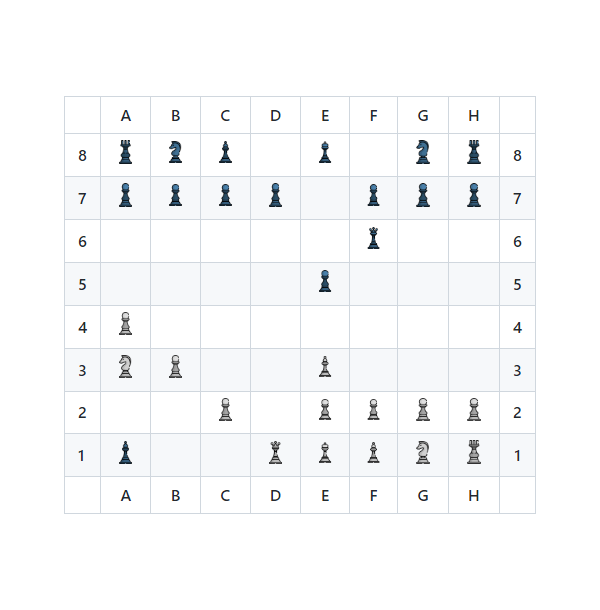
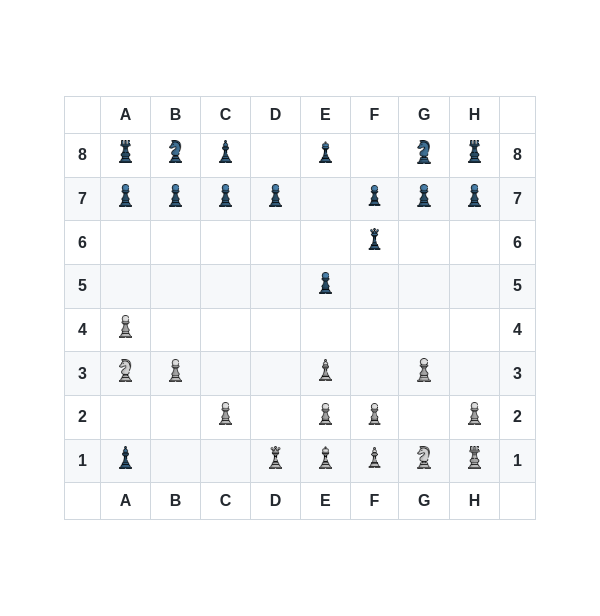
Generated the chess board preview img ♟

diff --git a/file.md b/file.md
@@ -6,7 +6,7 @@
 | **6** | <img src="https://raw.githubusercontent.com/milaabl/readme-chess/master/img/blank.png" width=50px> | <img src="https://raw.githubusercontent.com/milaabl/readme-chess/master/img/blank.png" width=50px> | <img src="https://raw.githubusercontent.com/milaabl/readme-chess/master/img/blank.png" width=50px> | <img src="https://raw.githubusercontent.com/milaabl/readme-chess/master/img/blank.png" width=50px> | <img src="https://raw.githubusercontent.com/milaabl/readme-chess/master/img/blank.png" width=50px> | <img src="https://raw.githubusercontent.com/milaabl/readme-chess/master/img/black/queen.png" width=50px> | <img src="https://raw.githubusercontent.com/milaabl/readme-chess/master/img/blank.png" width=50px> | <img src="https://raw.githubusercontent.com/milaabl/readme-chess/master/img/blank.png" width=50px> | **6** |
 | **5** | <img src="https://raw.githubusercontent.com/milaabl/readme-chess/master/img/blank.png" width=50px> | <img src="https://raw.githubusercontent.com/milaabl/readme-chess/master/img/blank.png" width=50px> | <img src="https://raw.githubusercontent.com/milaabl/readme-chess/master/img/blank.png" width=50px> | <img src="https://raw.githubusercontent.com/milaabl/readme-chess/master/img/blank.png" width=50px> | <img src="https://raw.githubusercontent.com/milaabl/readme-chess/master/img/black/pawn.png" width=50px> | <img src="https://raw.githubusercontent.com/milaabl/readme-chess/master/img/blank.png" width=50px> | <img src="https://raw.githubusercontent.com/milaabl/readme-chess/master/img/blank.png" width=50px> | <img src="https://raw.githubusercontent.com/milaabl/readme-chess/master/img/blank.png" width=50px> | **5** |
 | **4** | <img src="https://raw.githubusercontent.com/milaabl/readme-chess/master/img/white/pawn.png" width=50px> | <img src="https://raw.githubusercontent.com/milaabl/readme-chess/master/img/blank.png" width=50px> | <img src="https://raw.githubusercontent.com/milaabl/readme-chess/master/img/blank.png" width=50px> | <img src="https://raw.githubusercontent.com/milaabl/readme-chess/master/img/blank.png" width=50px> | <img src="https://raw.githubusercontent.com/milaabl/readme-chess/master/img/blank.png" width=50px> | <img src="https://raw.githubusercontent.com/milaabl/readme-chess/master/img/blank.png" width=50px> | <img src="https://raw.githubusercontent.com/milaabl/readme-chess/master/img/blank.png" width=50px> | <img src="https://raw.githubusercontent.com/milaabl/readme-chess/master/img/blank.png" width=50px> | **4** |
-| **3** | <img src="https://raw.githubusercontent.com/milaabl/readme-chess/master/img/white/knight.png" width=50px> | <img src="https://raw.githubusercontent.com/milaabl/readme-chess/master/img/white/pawn.png" width=50px> | <img src="https://raw.githubusercontent.com/milaabl/readme-chess/master/img/blank.png" width=50px> | <img src="https://raw.githubusercontent.com/milaabl/readme-chess/master/img/blank.png" width=50px> | <img src="https://raw.githubusercontent.com/milaabl/readme-chess/master/img/white/bishop.png" width=50px> | <img src="https://raw.githubusercontent.com/milaabl/readme-chess/master/img/blank.png" width=50px> | <img src="https://raw.githubusercontent.com/milaabl/readme-chess/master/img/blank.png" width=50px> | <img src="https://raw.githubusercontent.com/milaabl/readme-chess/master/img/blank.png" width=50px> | **3** |
-| **2** | <img src="https://raw.githubusercontent.com/milaabl/readme-chess/master/img/blank.png" width=50px> | <img src="https://raw.githubusercontent.com/milaabl/readme-chess/master/img/blank.png" width=50px> | <img src="https://raw.githubusercontent.com/milaabl/readme-chess/master/img/white/pawn.png" width=50px> | <img src="https://raw.githubusercontent.com/milaabl/readme-chess/master/img/blank.png" width=50px> | <img src="https://raw.githubusercontent.com/milaabl/readme-chess/master/img/white/pawn.png" width=50px> | <img src="https://raw.githubusercontent.com/milaabl/readme-chess/master/img/white/pawn.png" width=50px> | <img src="https://raw.githubusercontent.com/milaabl/readme-chess/master/img/white/pawn.png" width=50px> | <img src="https://raw.githubusercontent.com/milaabl/readme-chess/master/img/white/pawn.png" width=50px> | **2** |
+| **3** | <img src="https://raw.githubusercontent.com/milaabl/readme-chess/master/img/white/knight.png" width=50px> | <img src="https://raw.githubusercontent.com/milaabl/readme-chess/master/img/white/pawn.png" width=50px> | <img src="https://raw.githubusercontent.com/milaabl/readme-chess/master/img/blank.png" width=50px> | <img src="https://raw.githubusercontent.com/milaabl/readme-chess/master/img/blank.png" width=50px> | <img src="https://raw.githubusercontent.com/milaabl/readme-chess/master/img/white/bishop.png" width=50px> | <img src="https://raw.githubusercontent.com/milaabl/readme-chess/master/img/blank.png" width=50px> | <img src="https://raw.githubusercontent.com/milaabl/readme-chess/master/img/white/pawn.png" width=50px> | <img src="https://raw.githubusercontent.com/milaabl/readme-chess/master/img/blank.png" width=50px> | **3** |
+| **2** | <img src="https://raw.githubusercontent.com/milaabl/readme-chess/master/img/blank.png" width=50px> | <img src="https://raw.githubusercontent.com/milaabl/readme-chess/master/img/blank.png" width=50px> | <img src="https://raw.githubusercontent.com/milaabl/readme-chess/master/img/white/pawn.png" width=50px> | <img src="https://raw.githubusercontent.com/milaabl/readme-chess/master/img/blank.png" width=50px> | <img src="https://raw.githubusercontent.com/milaabl/readme-chess/master/img/white/pawn.png" width=50px> | <img src="https://raw.githubusercontent.com/milaabl/readme-chess/master/img/white/pawn.png" width=50px> | <img src="https://raw.githubusercontent.com/milaabl/readme-chess/master/img/blank.png" width=50px> | <img src="https://raw.githubusercontent.com/milaabl/readme-chess/master/img/white/pawn.png" width=50px> | **2** |
 | **1** | <img src="https://raw.githubusercontent.com/milaabl/readme-chess/master/img/black/bishop.png" width=50px> | <img src="https://raw.githubusercontent.com/milaabl/readme-chess/master/img/blank.png" width=50px> | <img src="https://raw.githubusercontent.com/milaabl/readme-chess/master/img/blank.png" width=50px> | <img src="https://raw.githubusercontent.com/milaabl/readme-chess/master/img/white/queen.png" width=50px> | <img src="https://raw.githubusercontent.com/milaabl/readme-chess/master/img/white/king.png" width=50px> | <img src="https://raw.githubusercontent.com/milaabl/readme-chess/master/img/white/bishop.png" width=50px> | <img src="https://raw.githubusercontent.com/milaabl/readme-chess/master/img/white/knight.png" width=50px> | <img src="https://raw.githubusercontent.com/milaabl/readme-chess/master/img/white/rook.png" width=50px> | **1** |
 |   | **A** | **B** | **C** | **D** | **E** | **F** | **G** | **H** |   |
